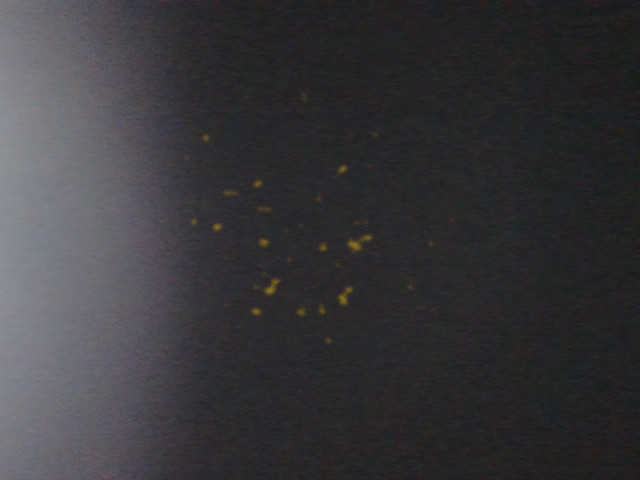
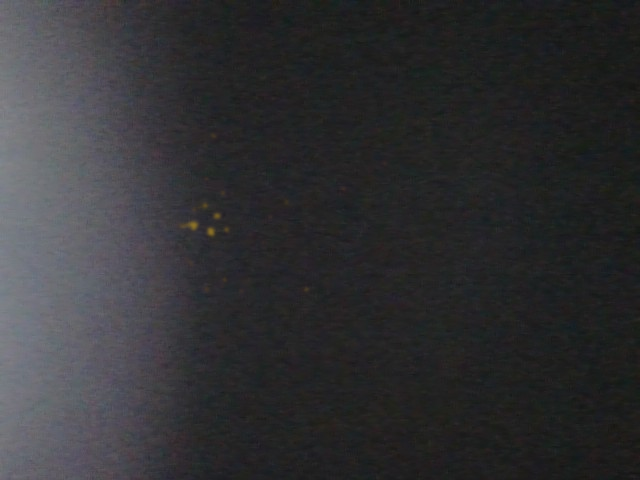
add qdrant points on actions

diff --git a/SkinProgress/SkinProgress/Controllers/UsersController.cs b/SkinProgress/SkinProgress/Controllers/UsersController.cs
@@ -213,26 +213,23 @@ public class UsersController : ControllerBase
         var todaysSelfieCapture = await _context.SelfieCaptures
             .FirstOrDefaultAsync(s => s.UserId == userId && s.CaptureDate == today && s.DeletedAt == null);
 
+        // Track if we're replacing an existing photo for this angle
+        Guid? oldPhotoIdToDelete = null;
+
         if (todaysSelfieCapture != null)
         {
-            // Check if this angle was already uploaded
+            // Check if this angle was already uploaded - if so, we'll replace it
             if (normalizedAngle == "front" && todaysSelfieCapture.FrontPhotoId.HasValue)
             {
-                return Conflict(new { message = $"You already uploaded the front selfie for today." });
+                oldPhotoIdToDelete = todaysSelfieCapture.FrontPhotoId;
             }
-            if (normalizedAngle == "left" && todaysSelfieCapture.LeftPhotoId.HasValue)
+            else if (normalizedAngle == "left" && todaysSelfieCapture.LeftPhotoId.HasValue)
             {
-                return Conflict(new { message = $"You already uploaded the left selfie for today." });
+                oldPhotoIdToDelete = todaysSelfieCapture.LeftPhotoId;
             }
-            if (normalizedAngle == "right" && todaysSelfieCapture.RightPhotoId.HasValue)
+            else if (normalizedAngle == "right" && todaysSelfieCapture.RightPhotoId.HasValue)
             {
-                return Conflict(new { message = $"You already uploaded the right selfie for today." });
-            }
-
-            // Check if already complete
-            if (todaysSelfieCapture.FrontPhotoId.HasValue && todaysSelfieCapture.LeftPhotoId.HasValue && todaysSelfieCapture.RightPhotoId.HasValue)
-            {
-                return Conflict(new { message = "You already completed your 3 selfies for today." });
+                oldPhotoIdToDelete = todaysSelfieCapture.RightPhotoId;
             }
         }
 
@@ -255,6 +252,42 @@ public class UsersController : ControllerBase
         }
 
         var fileUrl = GetFullUrl($"/selfies/{userId}/{fileName}");
+
+        // If replacing an existing photo for this angle, delete the old one
+        if (oldPhotoIdToDelete.HasValue)
+        {
+            var oldPhoto = await _context.Photos.FirstOrDefaultAsync(p => p.PhotoId == oldPhotoIdToDelete.Value);
+            if (oldPhoto != null)
+            {
+                // Delete the old file from disk
+                try
+                {
+                    var oldFilePath = Path.Combine(webRootPath, oldPhoto.FilePath.TrimStart('/'));
+                    if (System.IO.File.Exists(oldFilePath))
+                    {
+                        System.IO.File.Delete(oldFilePath);
+                    }
+                }
+                catch (Exception ex)
+                {
+                    Console.WriteLine($"Error deleting old photo file: {ex.Message}");
+                }
+
+                // Delete metadata
+                if (oldPhoto.MetadataId != Guid.Empty)
+                {
+                    var oldMetadata = await _context.PhotoMetadatas.FirstOrDefaultAsync(m => m.MetadataId == oldPhoto.MetadataId);
+                    if (oldMetadata != null)
+                    {
+                        _context.PhotoMetadatas.Remove(oldMetadata);
+                    }
+                }
+
+                // Delete the old photo record
+                _context.Photos.Remove(oldPhoto);
+                await _context.SaveChangesAsync();
+            }
+        }
 
         // Create a Photo record in the database
         var photoId = Guid.NewGuid();
@@ -824,6 +857,16 @@ public class UsersController : ControllerBase
             try
             {
                 await _qdrantService.StoreAnalysisAsync(userId.ToString(), analysisResult);
+
+                // Store analysis scores as activity event in Qdrant
+                var scoreEventData = new Dictionary<string, string>
+                {
+                    { "acne_score", (analysisResult.AcneSeverity?.ToString() ?? "0") },
+                    { "redness_score", (analysisResult.RednessSeverity?.ToString() ?? "0") },
+                    { "under_eye_bags_score", (analysisResult.UnderEyeBagsSeverity?.ToString() ?? "0") },
+                    { "overall_score", (((analysisResult.AcneSeverity ?? 0) + (analysisResult.RednessSeverity ?? 0) + (analysisResult.UnderEyeBagsSeverity ?? 0)) / 3.0).ToString() }
+                };
+                await _qdrantService.StoreUserActivityAsync(userId.ToString(), "score_update", scoreEventData);
                 
                 // Generate personalized recommendations based on analysis history
                 var recommendations = await _qdrantService.GenerateRecommendationsAsync(userId.ToString(), analysisResult);

diff --git a/SkinProgress/SkinProgress/Services/QdrantService.cs b/SkinProgress/SkinProgress/Services/QdrantService.cs
@@ -525,4 +525,83 @@ public class QdrantService : IQdrantService
         }
         return hash;
     }
+
+    /// <summary>
+    /// Stores user activity events (habit completions, photos, scores) in Qdrant for pattern analysis.
+    /// </summary>
+    public async Task StoreUserActivityAsync(string userId, string eventType, Dictionary<string, string> eventData)
+    {
+        try
+        {
+            await EnsureCollectionInitializedAsync();
+
+            // Create a vector representing the event
+            // Event types: habit_completion (1), photo_upload (2), score_update (3)
+            var eventTypeValue = eventType switch
+            {
+                "habit_completion" => 1.0f,
+                "photo_upload" => 2.0f,
+                "score_update" => 3.0f,
+                _ => 0.0f
+            };
+
+            // Generate a unique ID for this event
+            var eventId = $"{userId}_{eventType}_{DateTime.UtcNow:yyyy-MM-dd-HHmmss}";
+            var pointId = PointIdHash(eventId);
+
+            // Create vector with activity data (8 dimensions)
+            var vector = new float[8];
+            vector[0] = eventTypeValue; // Event type
+            
+            // Extract numeric values from eventData
+            if (eventData.TryGetValue("habit_count", out var habitCount) && int.TryParse(habitCount, out var hc))
+                vector[1] = hc / 10f; // Normalize to 0-1
+            
+            if (eventData.TryGetValue("acne_score", out var acneScore) && float.TryParse(acneScore, out var ac))
+                vector[2] = ac;
+            
+            if (eventData.TryGetValue("redness_score", out var rednessScore) && float.TryParse(rednessScore, out var rc))
+                vector[3] = rc;
+            
+            if (eventData.TryGetValue("overall_score", out var overallScore) && float.TryParse(overallScore, out var os))
+                vector[4] = os;
+            
+            // Fill remaining dimensions with event-specific data
+            vector[5] = eventType == "photo_upload" ? 1.0f : 0.0f;
+            vector[6] = eventData.ContainsKey("streak_count") && int.TryParse(eventData["streak_count"], out var streak) ? streak / 10f : 0.0f;
+            vector[7] = (float)DateTime.UtcNow.TimeOfDay.TotalHours / 24f; // Time of day normalized
+
+            var point = new
+            {
+                id = pointId,
+                vector = vector,
+                payload = new
+                {
+                    user_id = userId,
+                    event_type = eventType,
+                    timestamp = DateTime.UtcNow.ToString("O"),
+                    event_data = eventData
+                }
+            };
+
+            var url = $"{_qdrantUrl}/collections/{_collectionName}/points";
+            var response = await _httpClient.PutAsJsonAsync(url, new { points = new[] { point } });
+
+            if (!response.IsSuccessStatusCode)
+            {
+                var content = await response.Content.ReadAsStringAsync();
+                _logger.LogWarning("Failed to store activity in Qdrant: {Content}", content);
+            }
+            else
+            {
+                _logger.LogInformation("Activity stored in Qdrant for user {UserId}: {EventType}", userId, eventType);
+            }
+        }
+        catch (Exception ex)
+        {
+            _logger.LogError(ex, "Error storing activity in Qdrant for user {UserId}", userId);
+            // Don't throw - activity logging should not block main flow
+        }
+    }
 }
+

diff --git a/SkinProgress/SkinProgress/Controllers/PhotoController.cs b/SkinProgress/SkinProgress/Controllers/PhotoController.cs
@@ -2,6 +2,7 @@ using Microsoft.AspNetCore.Authorization;
 using Microsoft.AspNetCore.Mvc;
 using SkinProgress.Models.DTOs;
 using SkinProgress.Services;
+using SkinProgress.Services.Interfaces;
 
 namespace SkinProgress.Controllers;
 
@@ -16,11 +17,13 @@ namespace SkinProgress.Controllers;
 public class PhotoController : ControllerBase
 {
     private readonly PhotoService _photoService;
+    private readonly IQdrantService _qdrantService;
     private readonly ILogger<PhotoController> _logger;
 
-    public PhotoController(PhotoService photoService, ILogger<PhotoController> logger)
+    public PhotoController(PhotoService photoService, IQdrantService qdrantService, ILogger<PhotoController> logger)
     {
         _photoService = photoService ?? throw new ArgumentNullException(nameof(photoService));
+        _qdrantService = qdrantService ?? throw new ArgumentNullException(nameof(qdrantService));
         _logger = logger ?? throw new ArgumentNullException(nameof(logger));
     }
 
@@ -46,6 +49,24 @@ public class PhotoController : ControllerBase
             var result = await _photoService.UploadPhotoAsync(userId, request);
 
             _logger.LogInformation("Photo uploaded: {photoId}", result.PhotoId);
+
+            // Store photo upload activity in Qdrant
+            try
+            {
+                var eventData = new Dictionary<string, string>
+                {
+                    { "photo_id", result.PhotoId.ToString() },
+                    { "view_type", result.ViewType ?? "unknown" }
+                };
+
+                await _qdrantService.StoreUserActivityAsync(userId.ToString(), "photo_upload", eventData);
+            }
+            catch (Exception ex)
+            {
+                _logger.LogWarning(ex, "Error storing photo upload in Qdrant: {Message}", ex.Message);
+                // Don't throw - Qdrant failure shouldn't block photo upload
+            }
+
             return Ok(result);
         }
         catch (ArgumentException ex)

diff --git a/SkinProgress/SkinProgress/Controllers/HabitsController.cs b/SkinProgress/SkinProgress/Controllers/HabitsController.cs
@@ -3,6 +3,7 @@ using Microsoft.AspNetCore.Mvc;
 using Microsoft.EntityFrameworkCore;
 using SkinProgress.Data;
 using SkinProgress.Models.Entities;
+using SkinProgress.Services.Interfaces;
 using System.Security.Claims;
 
 namespace SkinProgress.Controllers;
@@ -13,10 +14,12 @@ namespace SkinProgress.Controllers;
 public class HabitsController : ControllerBase
 {
     private readonly AppDbContext _context;
+    private readonly IQdrantService _qdrantService;
 
-    public HabitsController(AppDbContext context)
+    public HabitsController(AppDbContext context, IQdrantService qdrantService)
     {
         _context = context;
+        _qdrantService = qdrantService;
     }
 
     private Guid GetUserId()
@@ -103,6 +106,28 @@ public class HabitsController : ControllerBase
         }
 
         await _context.SaveChangesAsync();
+
+        // Store habit completion activity in Qdrant
+        try
+        {
+            var todayCompletions = await _context.HabitCompletions
+                .Where(hc => hc.UserId == userId && hc.Date.Date == today)
+                .CountAsync();
+
+            var eventData = new Dictionary<string, string>
+            {
+                { "habit_name", request.HabitName },
+                { "habit_count", todayCompletions.ToString() }
+            };
+
+            await _qdrantService.StoreUserActivityAsync(userId.ToString(), "habit_completion", eventData);
+        }
+        catch (Exception ex)
+        {
+            Console.WriteLine($"Error storing habit completion in Qdrant: {ex.Message}");
+            // Don't throw - Qdrant failure shouldn't block habit tracking
+        }
+
         return Ok();
     }
 

diff --git a/SkinProgress/SkinProgress/Services/Interfaces/IQdrantService.cs b/SkinProgress/SkinProgress/Services/Interfaces/IQdrantService.cs
@@ -54,6 +54,14 @@ public interface IQdrantService
     /// </summary>
     /// <param name="userId">User unique identifier</param>
     Task DeleteUserDataAsync(string userId);
+
+    /// <summary>
+    /// Stores user activity events (habit completions, photos, scores) in Qdrant for pattern analysis.
+    /// </summary>
+    /// <param name="userId">User unique identifier</param>
+    /// <param name="eventType">Type of event: habit_completion, photo_upload, score_update</param>
+    /// <param name="eventData">Event metadata and values</param>
+    Task StoreUserActivityAsync(string userId, string eventType, Dictionary<string, string> eventData);
 }
 
 /// <summary>
